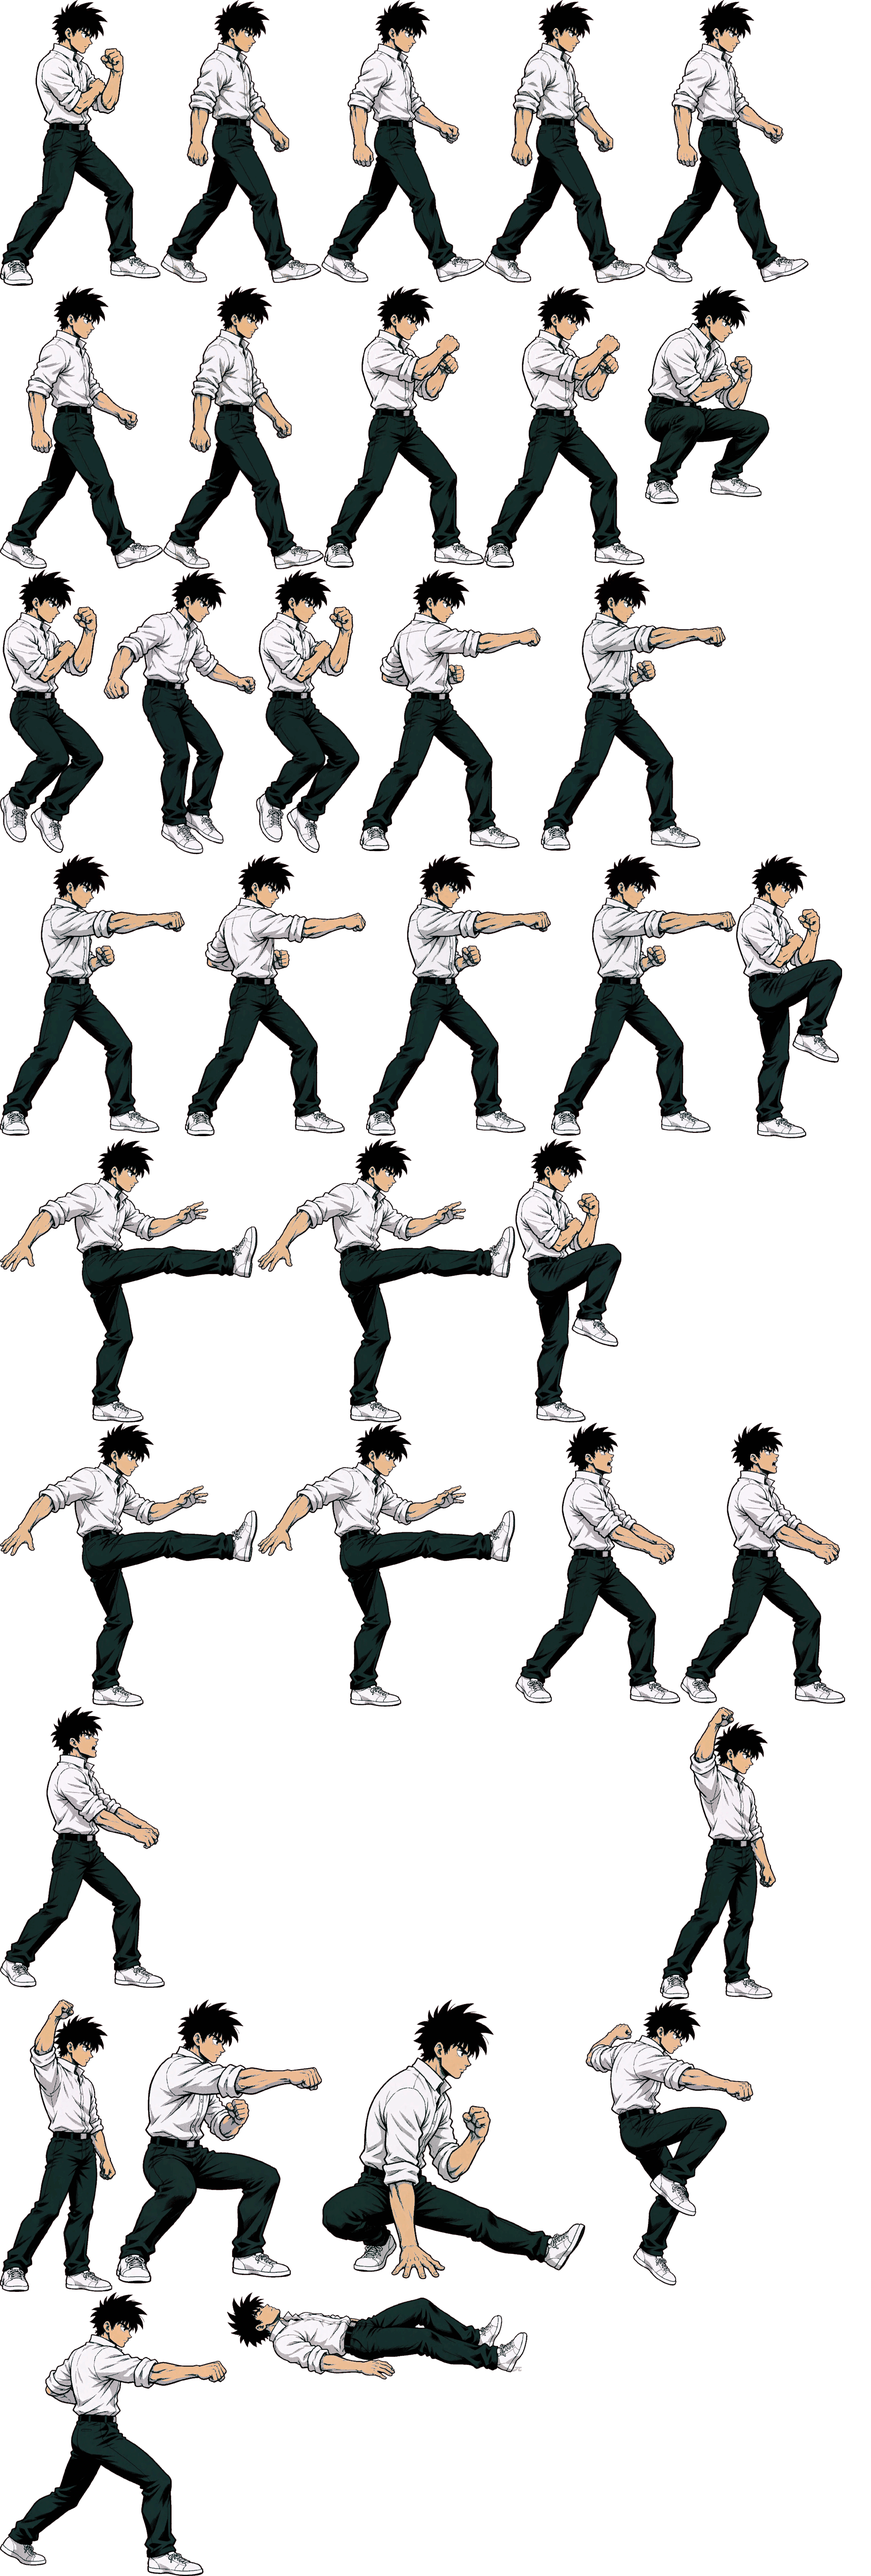
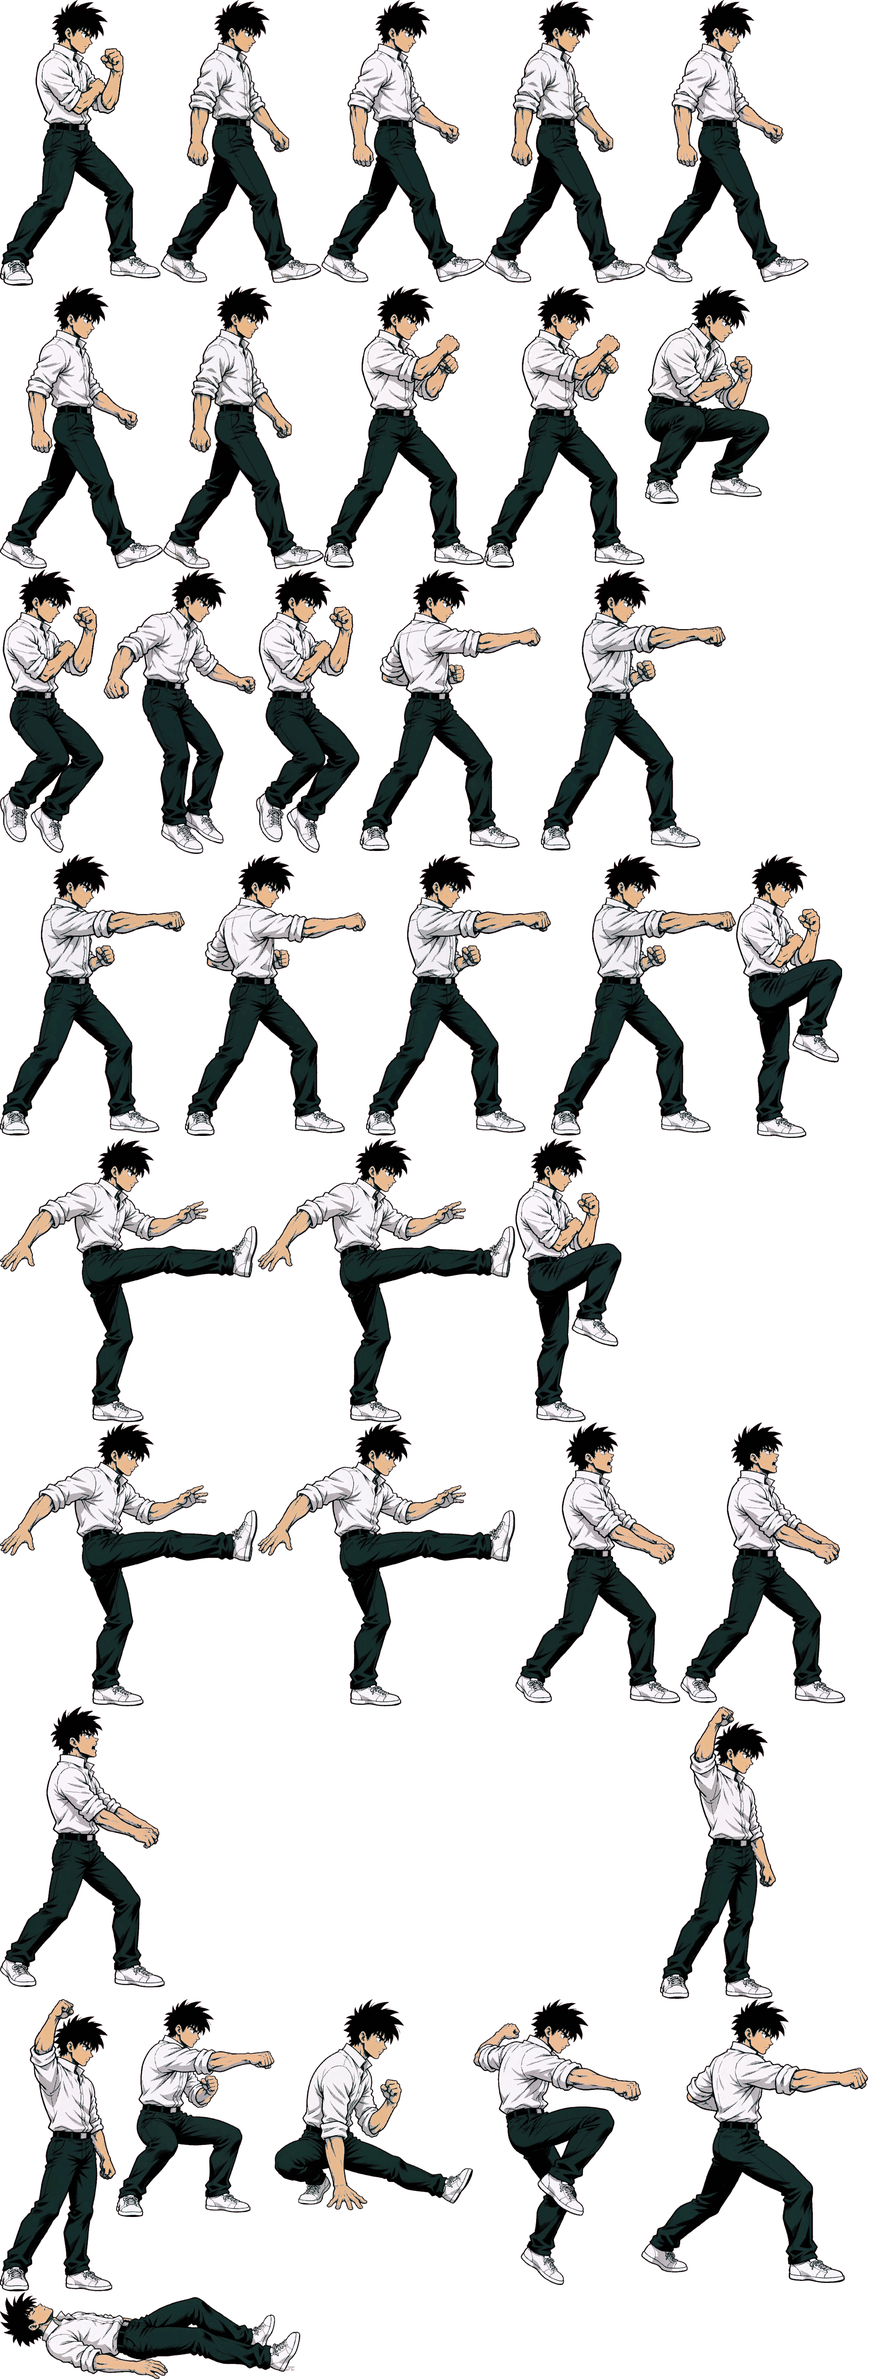
批次 20261025-1755 · [T148] 蹲拳/扫腿身高归一到 64/62 单位，不再比站姿大一圈，746 条测试全绿

diff --git a/.continue/TIPS.md b/.continue/TIPS.md
@@ -485,11 +485,11 @@
 
 ## 角色绘制与特效
 
-### AI 出图当素材：抠图/量化/闪白三个连环坑
+### AI 出图当素材：抠图/量化/闪白/比例四个连环坑
 
-- **抠图**：AI 的背景不是纯色（四角能差 40 个色阶），水印画在背景上且与角色不相连。别用"等于 #FF00FF 就透明"，改成：**四边泛洪**（只删连通画布外的）→ 删贴着透明区的残影 → **只留最大连通块**（水印是独立小岛自然消失）→ 再删"被手臂围住、整块都极接近背景色"的块。见 `scripts/sprites/cutout.mjs`。
-- **量化**：所有帧共用一份色板会给白衣点出绿斑（白衣暗部最近的邻居是墨绿裤）。改成**帧内色板**（每帧取自己最高频的 24 色），跨帧色差肉眼看不出。见 `build-kyo.mjs` 的 `framePalette`。
-- **闪白**：贴图闪白盖 `fillRect` 会在角色周围糊出白方块。管线**多烘一份纯白剪影**（同几何、不透明像素刷白），JSON 出 `flash` 段，`SpriteFrame.silhouette` 告诉绘制层别再加白块；没有剪影的老精灵表仍走 `fillRect` 兜底。图集翻倍（63KB，高度 179→356px），可接受。
+- **抠图**：AI 背景不是纯色（四角差 40 类阶）、水印和角色不相连。别用"等于 #FF00FF 就透明"：**四边泛洪**（只删连通画布外的）→ 删贴透明区的残影 → **只留最大连通块**（水印是独立小岛自动消失）→ 再删"被手臂围住、整块都接近背景色"的块（`cutout.mjs`）。**量化**同理别共用色板：共用会给白衣点出绿斑（暗部最近的邻居是墨绿裤），要**帧内取色**（每帧自己最高频的 24~32 色，`framePalette`）。
+- **闪白**：贴图闪白盖 `fillRect` 会在角色周围糊出白方块。管线**多烘一份纯白剪影**（同几何、不透明像素刷白），`SpriteFrame.silhouette` 让绘制层别再加白块；没剪影的老精灵表仍走 `fillRect` 兜底。
+- **比例**：AI 不管姿势一律把人物画满画面高度的 85%，所以**蹲姿会被画得和站姿一样高**——按包围盒等比缩放后整个人比站姿大一圈。蹲/躺这类姿势必须用 `HEIGHT_OVERRIDE` 单独压高度（蹲拳 64、扫腿 62 世界单位），改提示词写"只占 65%"没用，它不听。
 
 ### 一个角色的几十帧：只能靠"同一张垫图 + 一次一个姿势"
 

diff --git a/.continue/DONE.md b/.continue/DONE.md
@@ -41,6 +41,15 @@
 
 <!-- 实际归档放下面，最新的放最上面 -->
 
+## 批次 20261025-1755 · 2026-10-25 · 会话 59bce766
+
+**这批的目标**：用户反馈"下蹲出拳、下蹲出腿看着比其他动作大一圈"。
+
+- [x] [T148] 蹲姿身高归一
+  - 根因：提示词写的是"人物占画面高度 85%"，AI **不管什么姿势都照做**——蹲着也画满 85%。于是这张图里的整个人（含头、手、腿）都被放大到约 1.3 倍（84/64），按包围盒等比缩放到 84 世界单位后，人就比站姿粗壮一圈。另外我试过让它"只占 65%"，元宝完全不听，出图仍是满幅
+  - 做了什么：`HEIGHT_OVERRIDE` 从 `{ crouch: 64 }` 扩成 `{ crouch: 64, crouchPunch: 64, crouchKick: 62 }`；`gen-poses.mjs` 的构图句改成 `frame(height)` 函数（支持逐姿势指定占比，虽然 AI 不听，但代码上是完整的）
+  - 验证：把 idle / crouch / crouchPunch / crouchKick 按脚底对齐摆在一起，四个的头部宽度分别是 130/142/130/139 源像素（同一 px/单位），确认比例一致；游戏内蹲拳截图里人明显低于站姿
+
 ## 批次 20261025-1745 · 2026-10-25 · 会话 59bce766
 
 **这批的目标**：用户发现"格挡"和"下蹲出拳"这两下会闪回旧的程序化动画。

diff --git a/.continue/notes/batches.md b/.continue/notes/batches.md
@@ -43,3 +43,4 @@
 | 20261025-1630 | 2026-10-25 | 角色绘制与特效 | T143 | 贴图改按设备像素烘（4→6 倍），加 `scale` 换算，剪影只烘受击帧 |
 | 20261025-1730 | 2026-10-25 | 角色绘制与特效 | T144 T145 T146 | 元宝 MCP 加垫图 → 墨线基准图重出全姿势 + 2 倍超采样渲染 |
 | 20261025-1745 | 2026-10-25 | 角色绘制与特效 | T147 | 补蹲拳/蹲踢/空攻/必杀四套贴图 + 状态动画别名，闪回像素人问题清零 |
+| 20261025-1755 | 2026-10-25 | 角色绘制与特效 | T148 | 蹲拳/扫腿身高归一（AI 一律画满画面高度，蹲姿比站姿大一圈） |

diff --git a/.continue/TASKS.md b/.continue/TASKS.md
@@ -167,3 +167,4 @@
 - [x] T145 京改用墨线基准图重出全部 13 个姿势（同一张垫图锁形象，多帧才不串脸）
 - [x] T146 渲染超采样 RENDER_SCALE=2 + 贴图 8 倍（672px 高），画面/文字光栅化密度翻倍
 - [x] T147 补齐缺失动画（蹲拳/蹲踢/空攻/必杀各出真图）+ 其余动画走别名，杜绝"闪回程序化像素人"
+- [x] T148 蹲拳/扫腿按解剖身高压到 64/62 世界单位（AI 一律画满画面高度，不压就比站姿大一圈）
